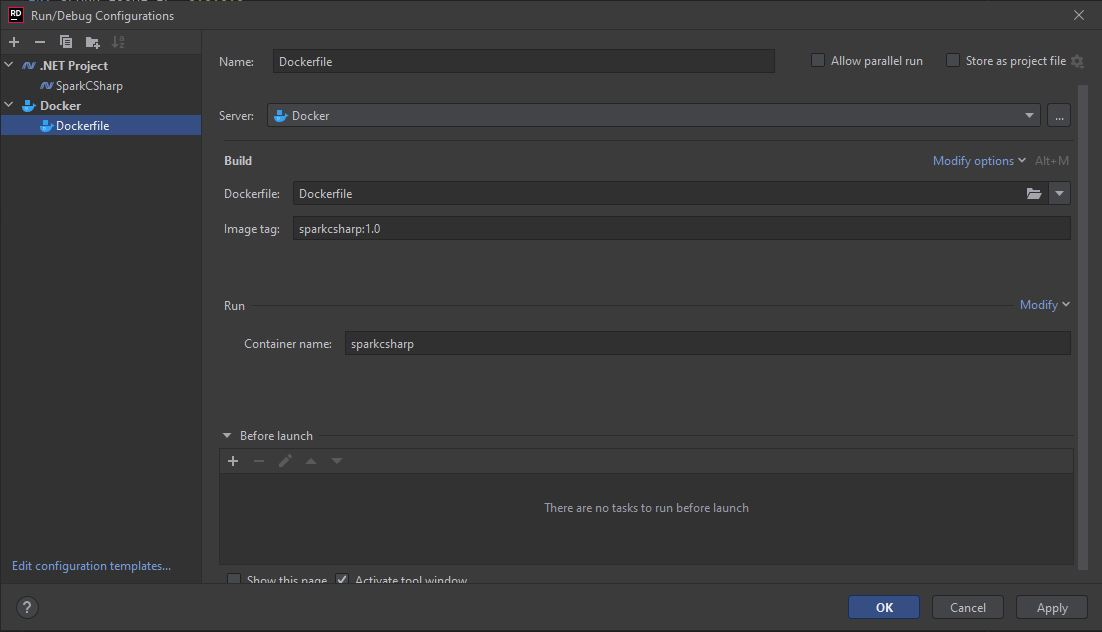
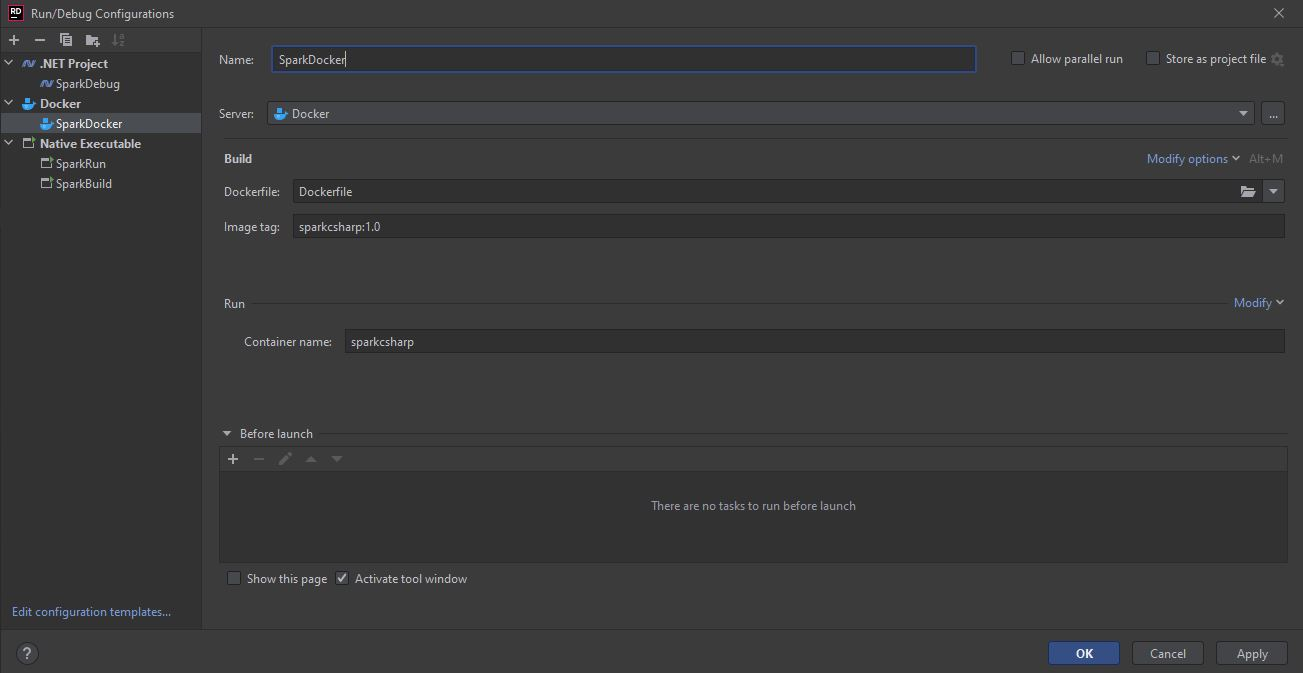
Update Screenshoot

diff --git a/Program.cs b/Program.cs
@@ -10,7 +10,7 @@ namespace SparkCSharp
             // create spark session
             SparkSession spark = SparkSession
                 .Builder()
-                .AppName("word_count_sample")
+                .AppName("SparkCSharp")
                 .GetOrCreate();
             
             // create initial dataframe
@@ -19,8 +19,7 @@ namespace SparkCSharp
             // count words
             DataFrame words = dataFrame
                 .Select(Functions.Split(Functions.Col("value"), " ").Alias("words"))
-                .Select(Functions.Explode(Functions.Col("words"))
-                    .Alias("word"))
+                .Select(Functions.Explode(Functions.Col("words")).Alias("word"))
                 .GroupBy("word")
                 .Count()
                 .OrderBy(Functions.Col("count").Desc());

diff --git a/Readme.md b/Readme.md
@@ -16,29 +16,29 @@ There are also options to run Spark application on Spark container
    
 For more info: https://dotnet.microsoft.com/en-us/learn/data/spark-tutorial/install-spark
 
-### Build Config
+### Run Config
 
-To build Spark app run Spark Submit command or create a new configuration under External Executable as follows:
+To run Spark app run Spark Submit command or create a new 'Run Config' under External Executable as follows:
 
     dotnet build
-    spark-submit --class org.apache.spark.deploy.dotnet.DotnetRunner --master local bin\Debug\netcoreapp3.1\microsoft-spark-3-1_2.12-2.0.0.jar dotnet bin\Debug\netcoreapp3.1\SparkCSharp.dll
+    spark-submit --class org.apache.spark.deploy.dotnet.DotnetRunner bin\Debug\netcoreapp3.1\microsoft-spark-3-1_2.12-2.0.0.jar dotnet bin\Debug\netcoreapp3.1\SparkCSharp.dll
 
-![](jpg/config.jpg)
+![](jpg/run.jpg)
+
+### Build Config
+
+To build Spark app run Spark Submit command or create a new 'Build Config' under External Executable as follows:
+
+    set DOTNET_WORKER_DEBUG=1
+    spark-submit --class org.apache.spark.deploy.dotnet.DotnetRunner bin\Debug\netcoreapp3.1\microsoft-spark-3-1_2.12-2.0.0.jar debug
+
+![](jpg/build.jpg)
 
 ### Debug Config
 
-To debug Spark app run Spark Submit command or create a new configuration under External Executable as follows:
-
-    set DOTNET_WORKER_DEBUG=1
-    spark-submit --class org.apache.spark.deploy.dotnet.DotnetRunner --master local bin\Debug\netcoreapp3.1\microsoft-spark-3-1_2.12-2.0.0.jar debug
+To run Spark app create a new 'Debug Config' under .NET Project configuration file. In order to debug run above 'Build Config' first, set breakpoint, and then run this 'Debug Config':
 
 ![](jpg/debug.jpg)
-
-### Run Config
-
-To run Spark ap run standard .NET Project configuration file. In order to debug run above 'Debug Config' first, set breakpoint, and then run this 'Run Config':
-
-![](jpg/config.jpg)
 
 ## Spark on Docker
 
